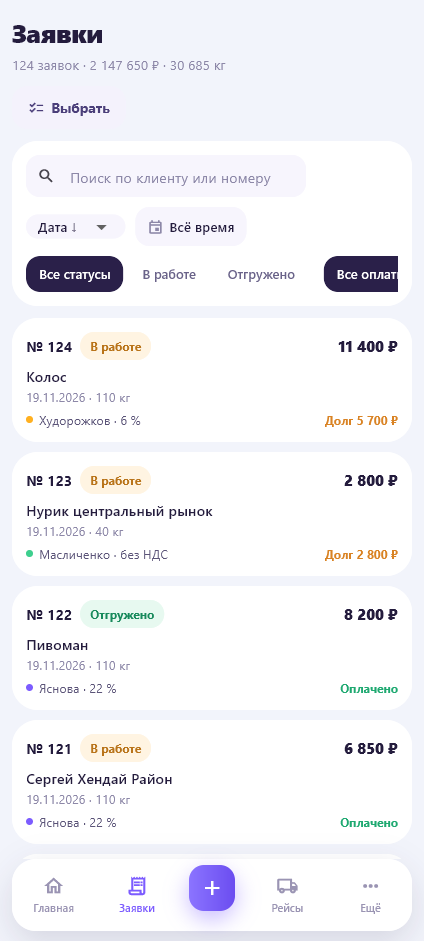
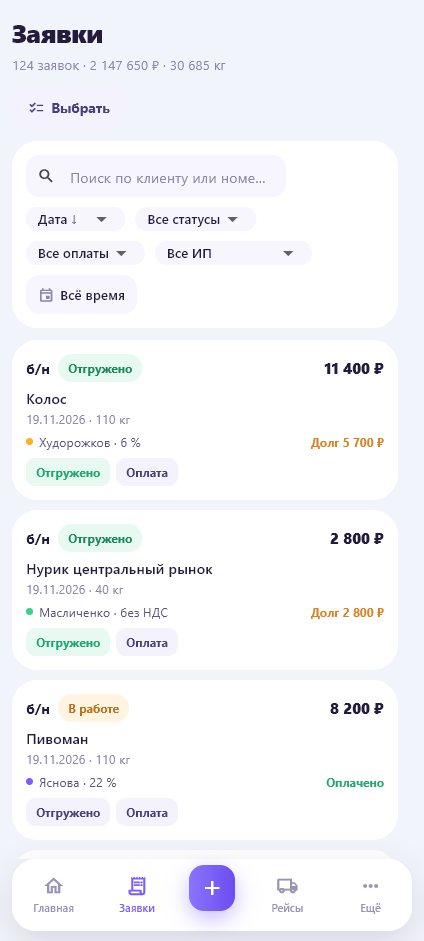
v0.4.0: documents, client orgs, comments, actions, dropdown filters, dark theme

diff --git a/README.md b/README.md
@@ -5,17 +5,17 @@
 
 ## Скачать и установить
 
-Версия 0.3.0 → **[Releases](https://github.com/GXWag/drevugol-55/releases/tag/v0.3.0)**
+Версия 0.4.0 → **[Releases](https://github.com/GXWag/drevugol-55/releases/tag/v0.4.0)**
 
 **Windows 11**
-1. Скачать `drevugol55-windows-0.3.0.zip` и распаковать в любую папку.
+1. Скачать `drevugol55-windows-0.4.0.zip` и распаковать в любую папку.
 2. Запустить `drevugol55.exe`.
 
 **Android**
-1. Скачать `drevugol55-0.3.0.apk` на телефон.
+1. Скачать `drevugol55-0.4.0.apk` на телефон.
 2. Разрешить установку из этого источника и установить.
 
-Как проверить версию: в приложении откройте **Настройки** — внизу написано «версия 0.3». Если там 0.1 или 0.2, установился старый файл.
+Как проверить версию: в приложении откройте **Настройки** — внизу написано «версия 0.4».
 
 > Первый запуск создаёт демо-данные (клиенты, заявки, расходы), чтобы было видно, как всё работает.
 
@@ -69,6 +69,17 @@
 | Отчёты | Клиенты |
 |---|---|
 | ![Отчёты](shots/mobile/m-reports.png) | ![Клиенты](shots/mobile/m-clients.png) |
+
+## Что нового в 0.4.0
+
+- В заявке выбирается документ: **Накладная** (по умолчанию, номер б/н), **УПД**, **ТОРГ-12**, **ТТН**. Номер подставляется свой для каждого клиента и документа, его можно изменить.
+- В заявках появились столбец «Комментарий» и кнопки **Отгружено** и **Оплата** прямо в списке.
+- Фильтры в виде выпадающих списков: статус, оплата, ИП (на компьютере и на телефоне).
+- Способы оплаты: наличные, перевод, счёт.
+- У клиента можно включить «Несколько ИП / ООО» и вести список организаций; в заявке выбирается организация, в списке она показывается перед датой.
+- Убрана лишняя кнопка «Оплата» в шапке заявки.
+- Ползунок прокрутки отодвинут от кнопок и текста.
+- **Тёмная тема**: Настройки → Внешний вид (светлая / тёмная / как в системе).
 
 ## Что нового в 0.3.0
 
